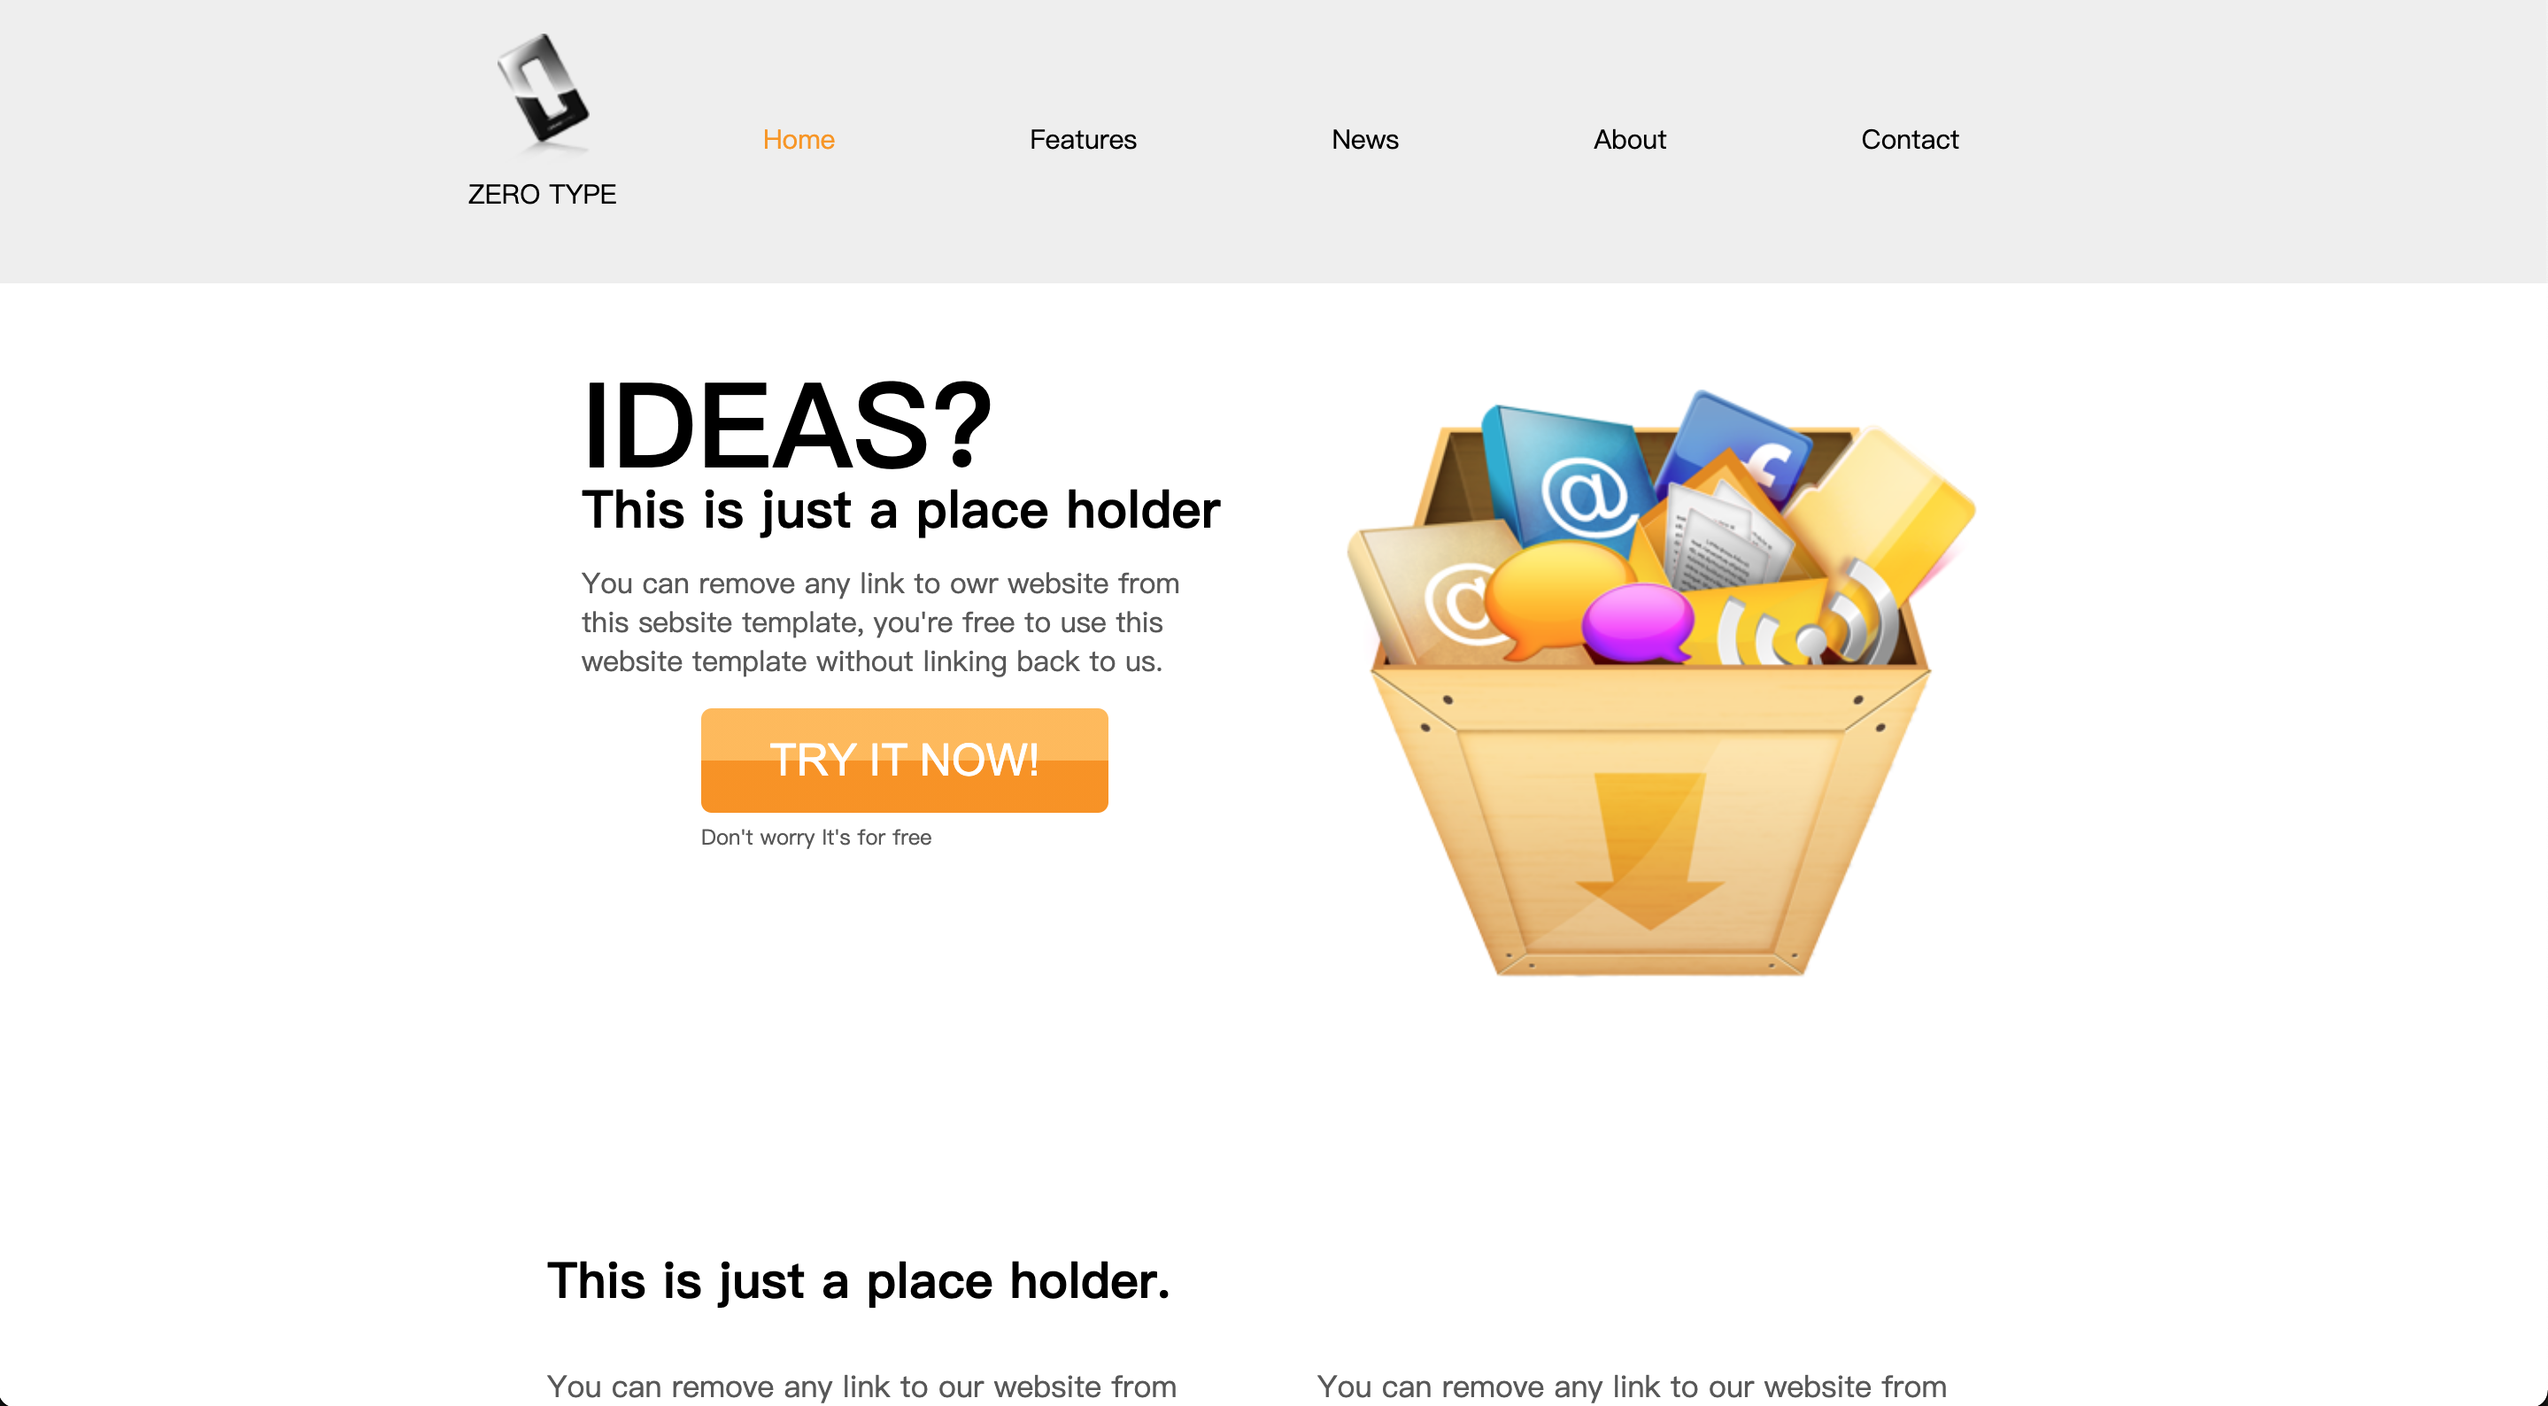
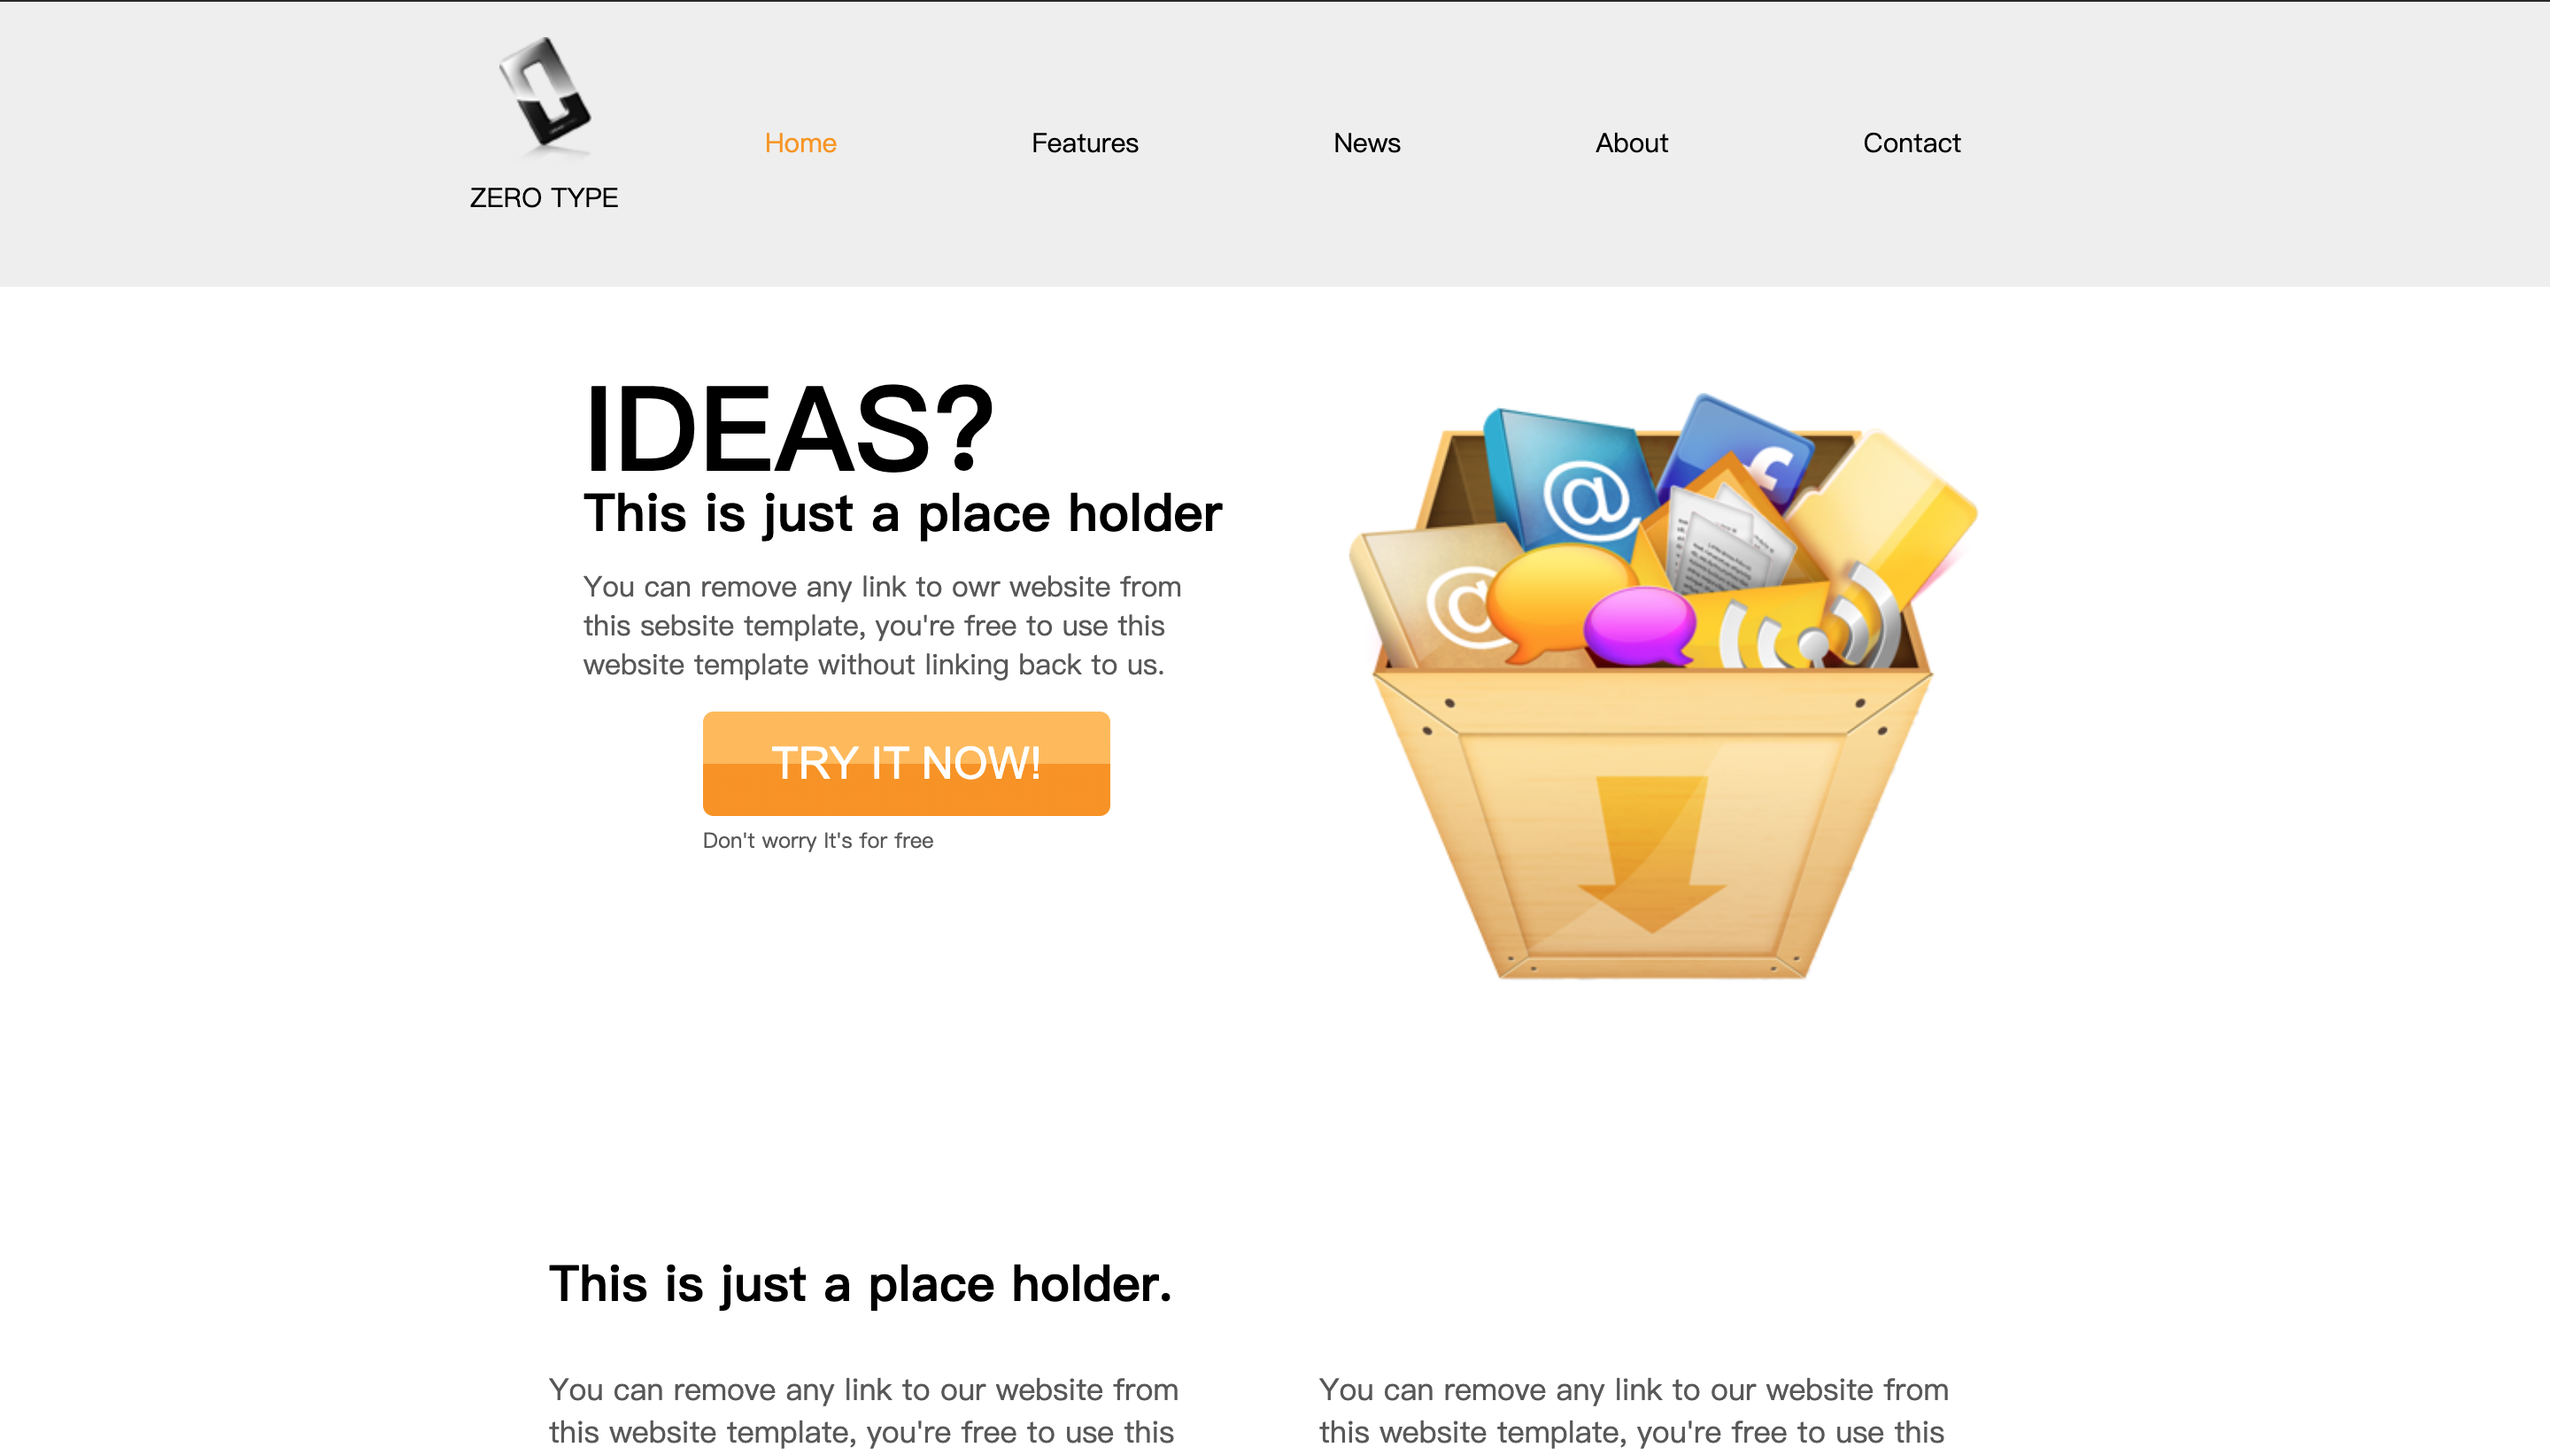
頁面css修改

diff --git a/index.html b/index.html
@@ -1,13 +1,9 @@
-<!DOCTYPE html>
-<html lang="en">
+<html>
     <head>
-        <meta charset="UTF-8">
-        <meta http-equiv="X-UA-Compatible" content="IE=edge">
-        <meta name="viewport" content="width=device-width, initial-scale=1.0">
-        <link rel="stylesheet" href="css/headbox.css">
-        <link rel="stylesheet" href="css/contnet.css">
-        <link rel="stylesheet" href="css/footer.css">
-        <link rel="stylesheet" href="https://cdnjs.cloudflare.com/ajax/libs/font-awesome/4.7.0/css/font-awesome.min.css">
+        <link type="text/css" rel="stylesheet" charset="UTF-8" href="css/headbox.css">
+        <link type="text/css" rel="stylesheet" charset="UTF-8" href="css/contnet.css">
+        <link type="text/css" rel="stylesheet" charset="UTF-8" href="css/footer.css">
+        <link type="text/css" rel="stylesheet" charset="UTF-8" href="https://cdnjs.cloudflare.com/ajax/libs/font-awesome/4.7.0/css/font-awesome.min.css">
         <title>Page title</title>
     </head>
     <body>
@@ -28,19 +24,29 @@
             </div>
         </div>
         <div id="contnet">
-            <img src="img/box.png" />
-            <h1>IDEAS?</h1>
-            <h2>This is just a place holder</h2>
-            <p>"You can remove any link to owr website from this sebsite template, you're free to use this website template without linking back to us."</p>
-            <button class=".try-it-now">TRY IT NOW!</button>
-            <p>Don't worry It's for free</p>
-            <h1>This is just a place holder.</h1>
-            <p>You can remove any link to our website from this website template, you're free to use this website template without linking back to us.</p>
-            <p>This is just a place holder, so you can see what the site would look like.</p>
-            <P>You can remove any link to our website from this website template, you're free to use this website template without linking back to us. This is just a place holder, so you can see what the site would look like.</P>
-            <P>You can remove any link to our website from this website template, you're free to use this website template without linking back to us.</P>
-            <P>This is just a place holder, so you can see what the site would look like.</P>
-            <P>You can remove any link to our website from this website template, you're free to use this website template without linking back to us. This is just a place holder, so you can see what the site would look like.</P>
+            <div class="clearfix try_it try_it_text_side_space">
+                <img src="img/box.png" alt="hurry up try it">
+                <div id="try_it_text">
+                    <h1>IDEAS?</h1>
+                    <h2>This is just a place holder</h2>
+                    <p>"You can remove any link to owr website from this sebsite template, you're free to use this website template without linking back to us."</p>
+                    <div>
+                        <button id="try-it-now">TRY IT NOW!</button>
+                        <p>Don't worry It's for free</p>
+                    </div>
+                </div>
+            </div>
+            <div class="content_text_side_space">
+                <h1 id="content_head">This is just a place holder.</h1>
+                <div id="content_text">
+                    <p>You can remove any link to our website from this website template, you're free to use this website template without linking back to us.</p>
+                    <p>This is just a place holder, so you can see what the site would look like.</p>
+                    <P>You can remove any link to our website from this website template, you're free to use this website template without linking back to us. This is just a place holder, so you can see what the site would look like.</P>
+                    <P>You can remove any link to our website from this website template, you're free to use this website template without linking back to us.</P>
+                    <P>This is just a place holder, so you can see what the site would look like.</P>
+                    <P>You can remove any link to our website from this website template, you're free to use this website template without linking back to us. This is just a place holder, so you can see what the site would look like.</P>
+                </div>
+            </div>
         </div>
         <div id="footer">
             <p>(c) 2023 Zerotype. All Rights Reserved.</p>

diff --git a/css/contnet.css b/css/contnet.css
@@ -1,30 +1,72 @@
-* {
-    outline: 1px solid red;
-}
-.template {
-        display: block;
-        position: absolute;
-        top: 0;
-        left: 0;
-        z-index: 0;
-        width: 100%;
-        height: auto;
-        opacity: .5;
-}
-
-.try-it-now {color: red;}
-element.style {
-}
-#headbox {
+#content {
     font-family: sans-serif;
-    background-color: #EEEEEE;
 }
-div {
+.try_it_text_side_space {
+    margin: 0 auto;
+    width: 795px;
+}
+.try_it img {
+    float: right;
+    padding-top: 60px;
+    width: 357px;
+}
+#try_it_text {
+    width: 365px;
+    padding: 7px;
+}
+#try_it_text h1 {
+    padding-top: 40px;
+    font-size: 50pt;
+    line-height: 50pt;
+    margin: 0;
+}
+#try_it_text h2 {
+    padding-top: 0px;
+    font-size: 22pt;
+    line-height: 22pt;
+    margin: 0;
+}
+#try_it_text p {
+    font-size: 16px;
+    color: #585858;
+}
+#try_it_text div {
+    margin: 0 auto;
+    width: 230px;
+}
+#try_it_text div p {
+    font-size: 12pt;
+    margin: 5px 0;
+}
+#try-it-now {
+    background-color: #4098D3;
+    color: #fff;
+    font-size: 25px;
+    background-image: linear-gradient(#FFBA53 50%, #F99303 50%);
+    border-radius: 6px;
+    border-style: none;
+    height: 59px;
+    width: inherit;
+}
+.contnet_text_side_space {
+    margin: 151px auto;
+    width: 820px;
+}
+.contnet_text_side_space p {
+    font-size: 17px;
+}
+#content_head {
+    font-size: 28px;
+    margin: 28px 0;
+}
+#content_text {
+    column-count: 2;
+    column-gap: 50px;
+}
+#content_text p {
     display: block;
-}
-.clearfix::after {
-    -webkit-animation-iteration-count: "";
-    clear: both;
-    display: table;
-    
+    color: #bd2121;
+    line-height: 24px;
+    margin-bottom: 28px;
+    margin-top: 0px;
 }

diff --git a/css/headbox.css b/css/headbox.css
@@ -1,5 +1,19 @@
-body {
+* {
+    outline: 1px solid red;
+}
+.template {
+        display: block;
+        position: absolute;
+        top: 0;
+        left: 0;
+        z-index: 0;
+        width: 100%;
+        height: auto;
+        opacity: .5;
+}
+.body {
     margin: 0px;
+    display: block;
 }
 
 .side_space {
@@ -26,7 +40,7 @@ body {
     display: block;
     float: left;
     width: 85px;
-    padding-top: 20px
+    padding-top: 20px;
     padding-bottom: 40px;
     text-align: center;
 }
@@ -57,9 +71,13 @@ body {
     display: block;
     font-size: 15px;
     line-height: 160px;
-    margin: 15px;
+    margin: 10px;
 }
-
 #headbox ul li + li {
     margin-left: 110px;
+}
+.clearfix::after {
+    -webkit-animation-iteration-count: "";
+    clear: both;
+    display: table;    
 }
